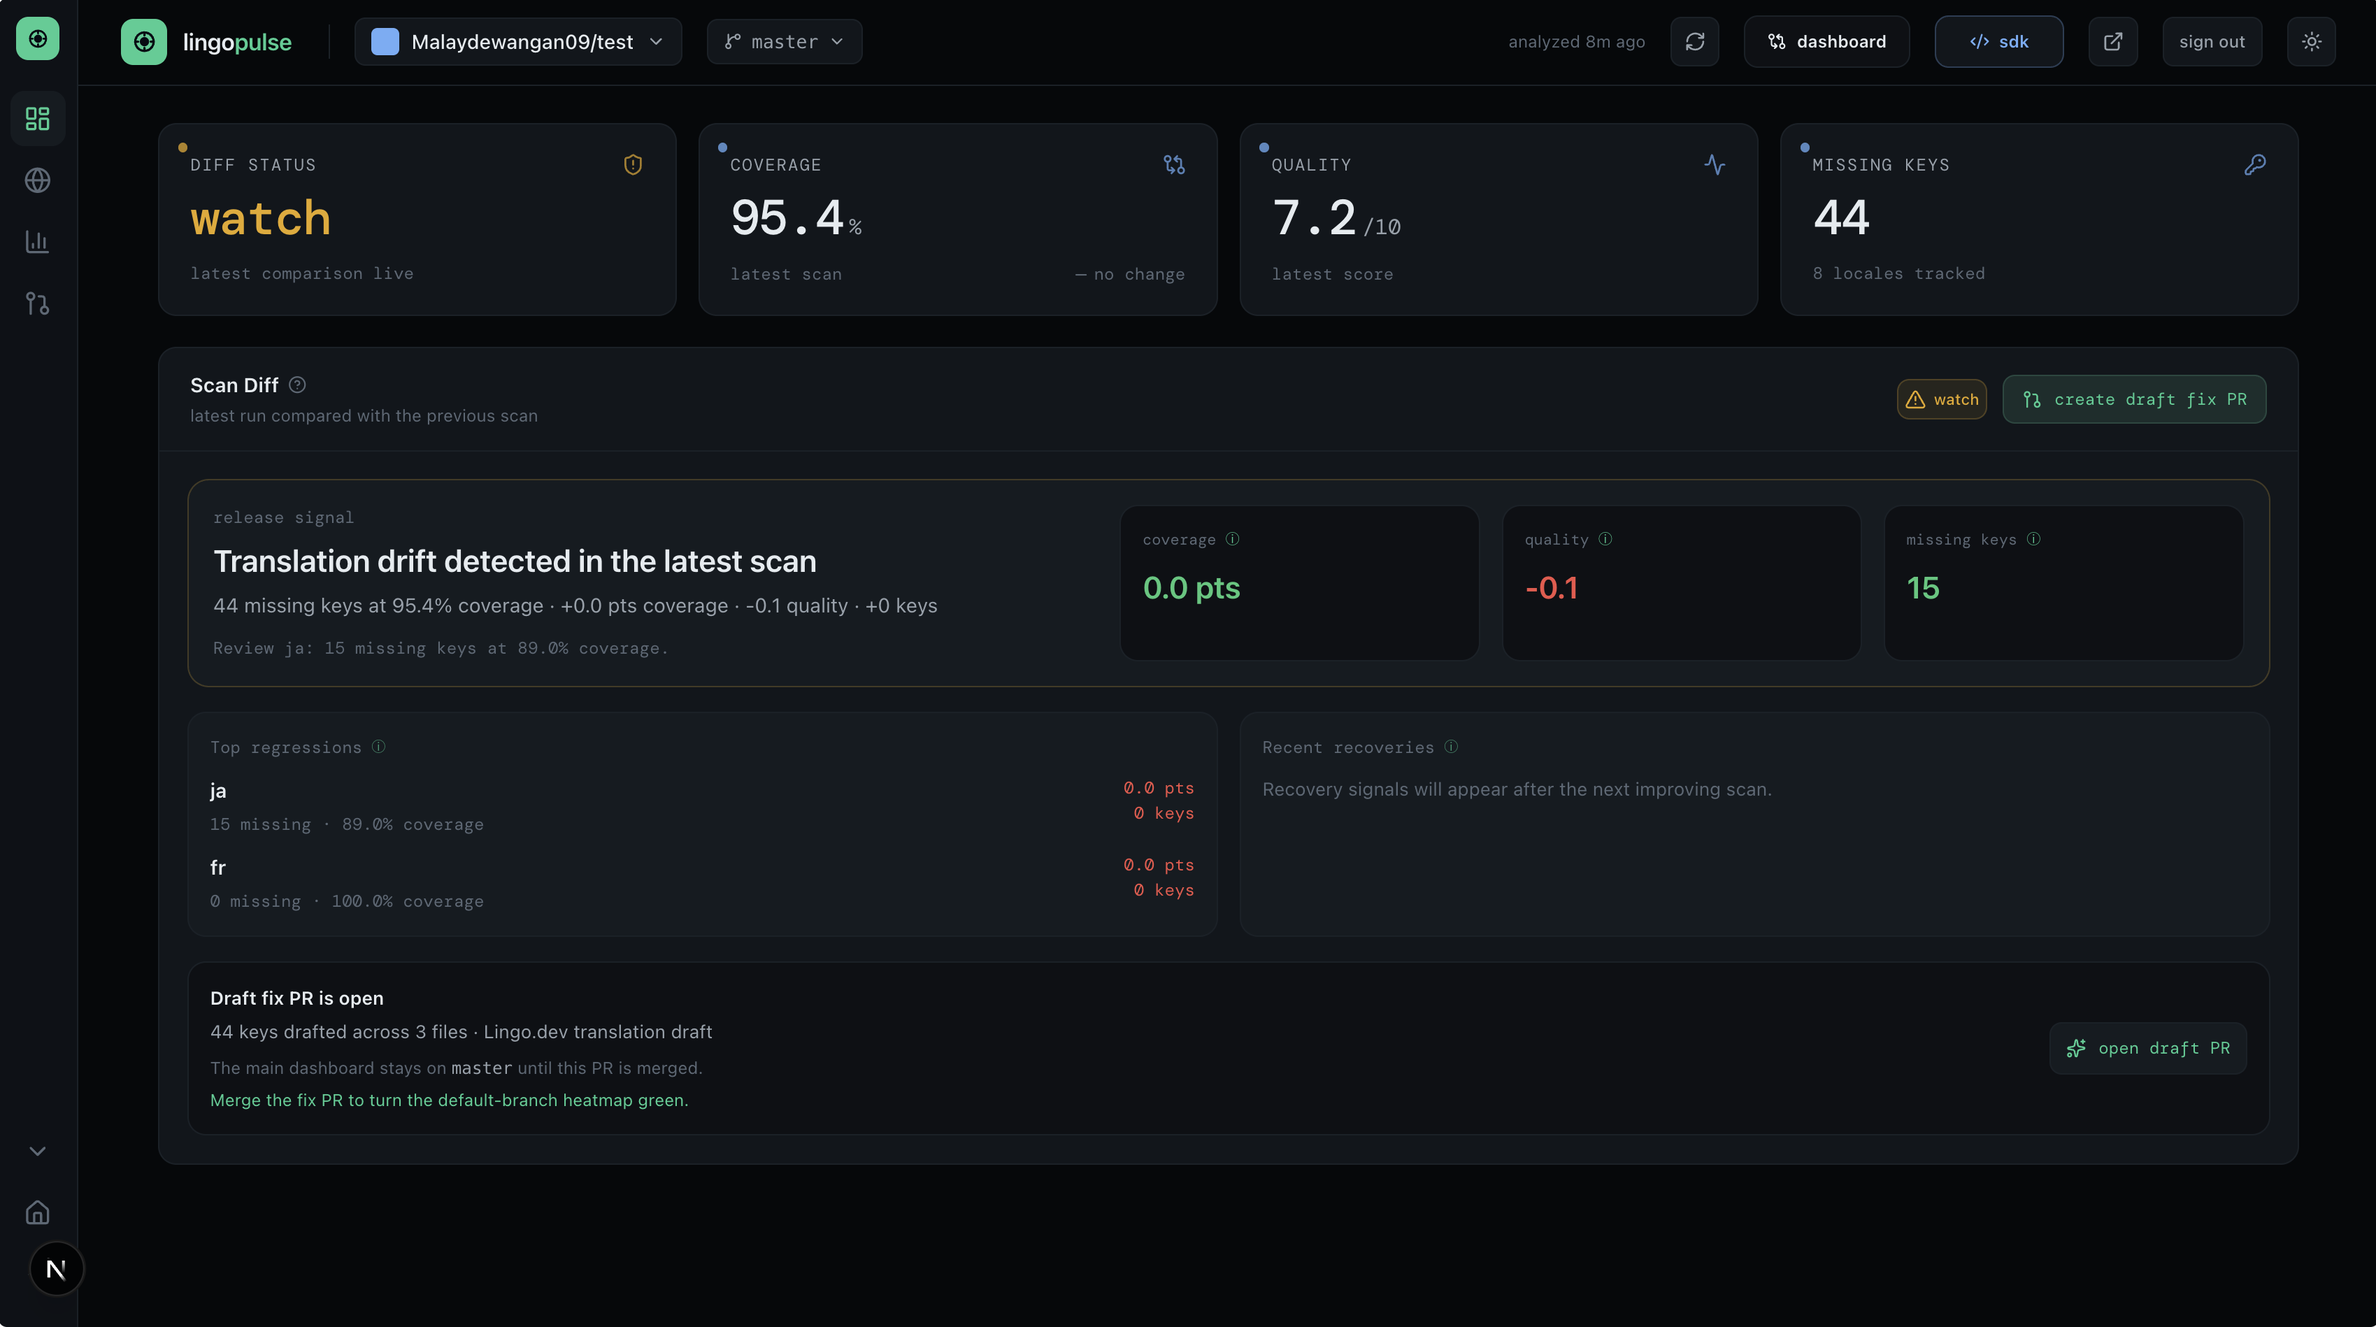
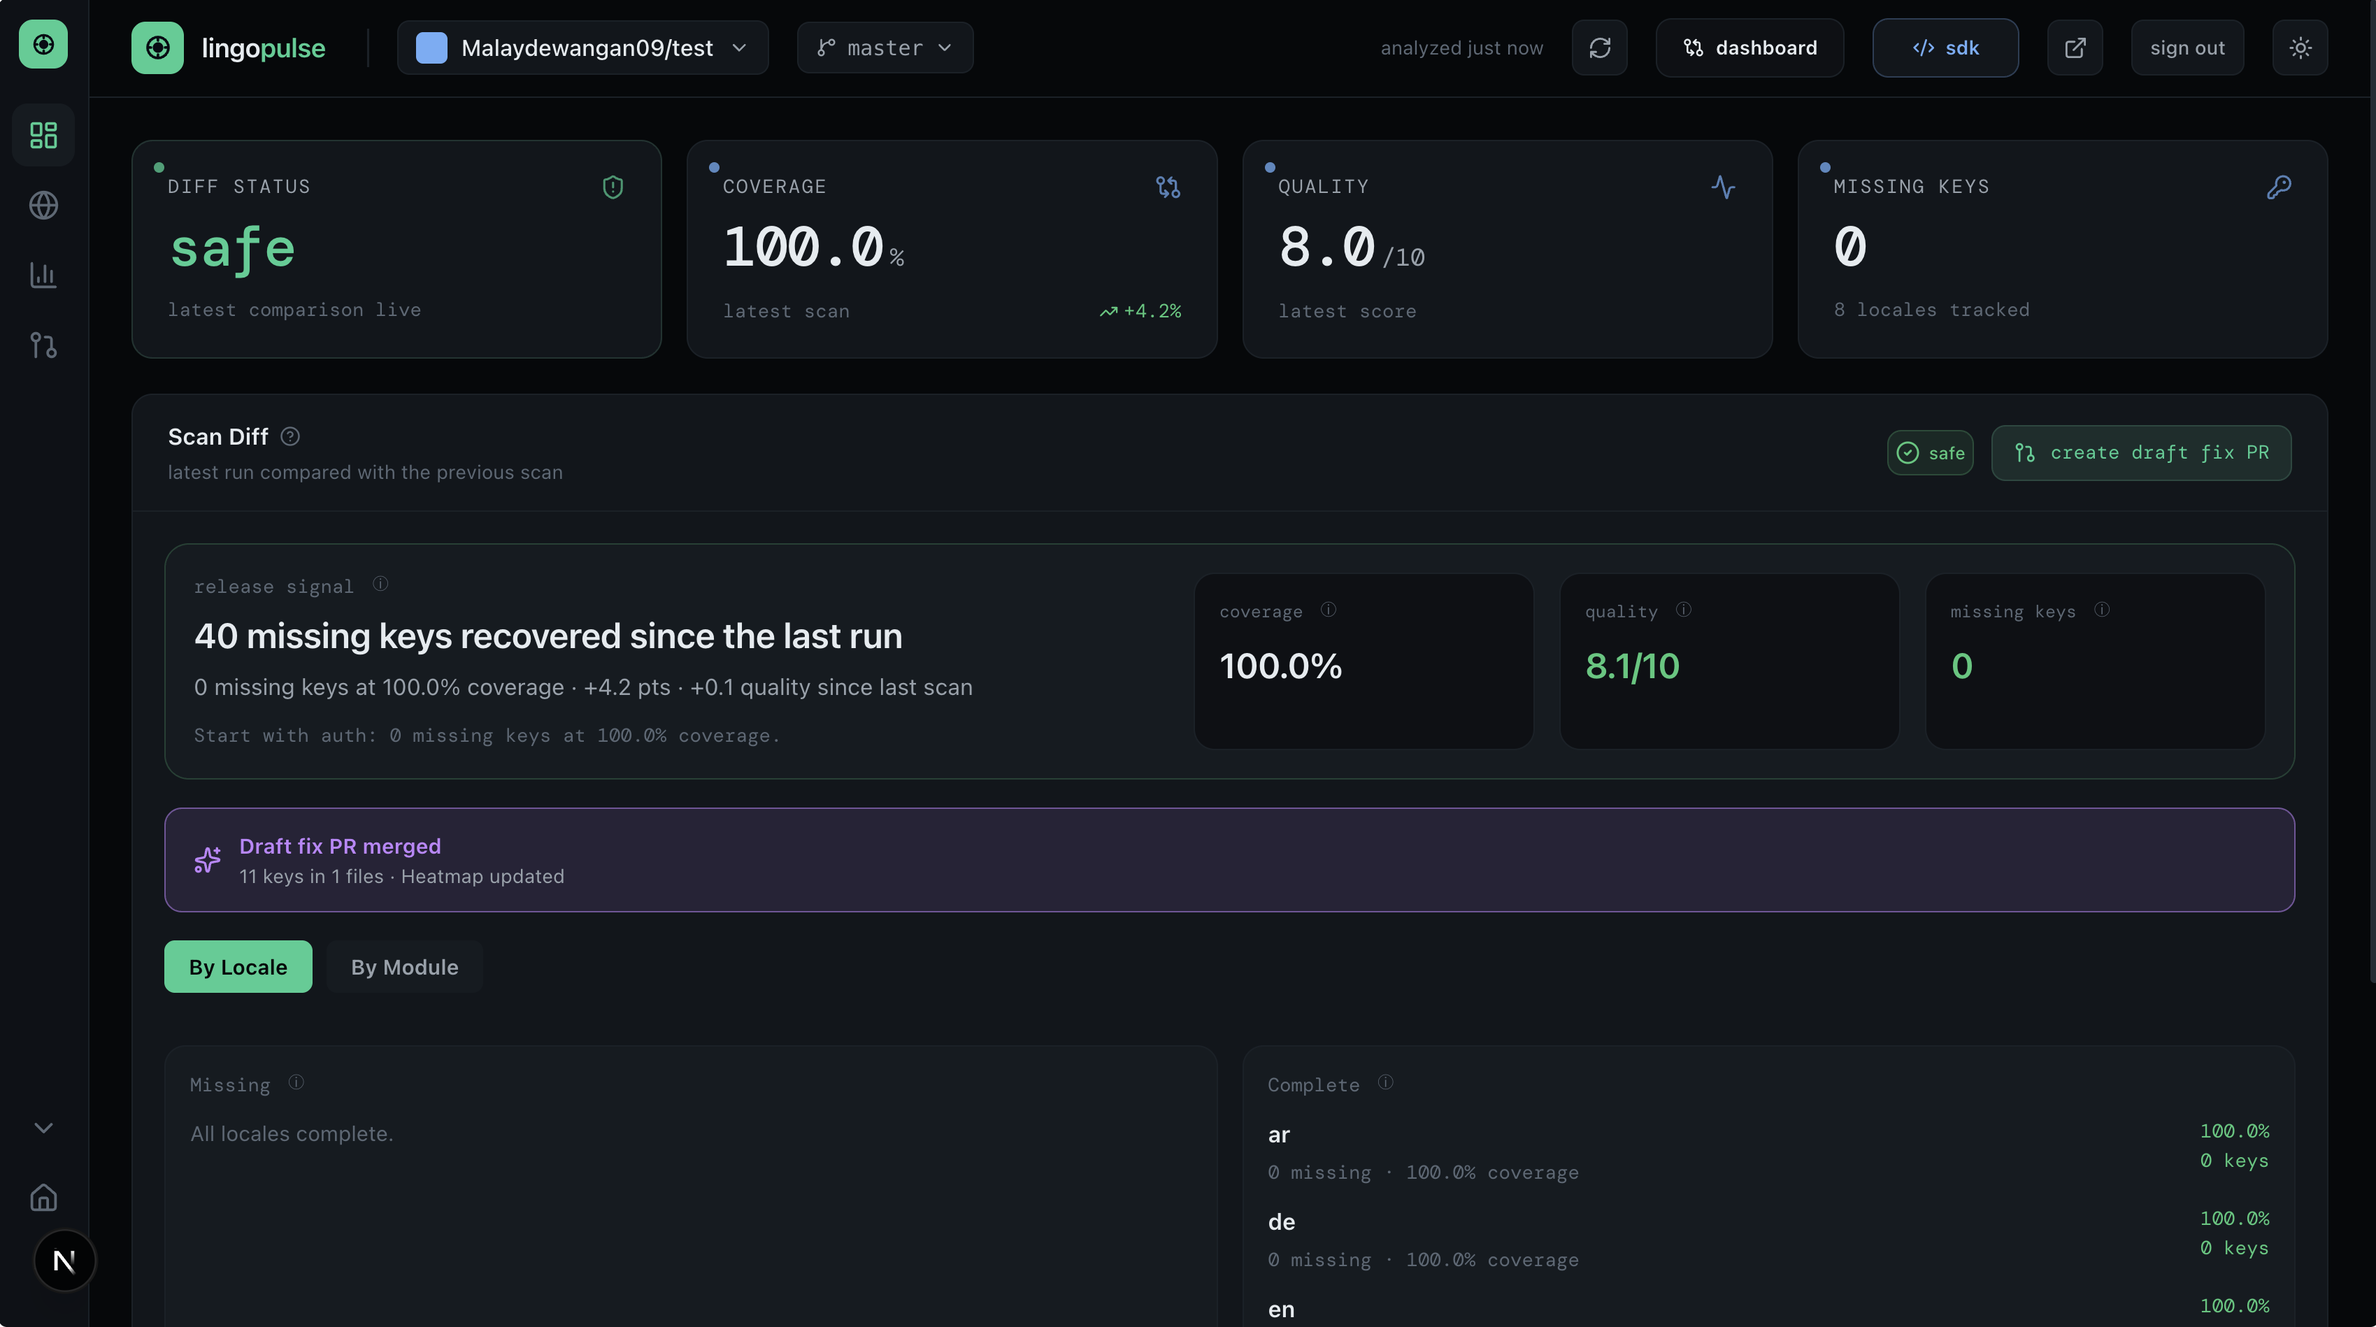
feat: improve scan diff and sdk

diff --git a/src/components/dashboard/ScanDiffPanel.tsx b/src/components/dashboard/ScanDiffPanel.tsx
@@ -72,16 +72,6 @@ function toneStyles(status: ScanDiffSummary['status']) {
   };
 }
 
-function formatDelta(value: number, suffix = ''): string {
-  const sign = value > 0 ? '+' : '';
-  return `${sign}${value.toFixed(1)}${suffix}`;
-}
-
-function formatMissingDelta(value: number): string {
-  const sign = value > 0 ? '+' : '';
-  return `${sign}${value}`;
-}
-
 function SignalList({
   title,
   signals,
@@ -93,9 +83,7 @@ function SignalList({
   emptyLabel: string;
   positive?: boolean;
 }) {
-  const tooltipText = positive 
-    ? (title.includes('modules') ? 'Modules with 100% coverage' : 'Locales with 100% coverage')
-    : (title.includes('modules') ? 'Modules with missing keys' : 'Locales with missing keys');
+  const tooltipText = positive ? 'Locales with 100% coverage' : 'Locales with missing keys, sorted by most missing';
   return (
     <div
       style={{
@@ -134,8 +122,8 @@ function SignalList({
                   textAlign: 'right',
                 }}
               >
-                <div>{formatDelta(signal.coverageDelta, ' pts')}</div>
-                <div>{formatMissingDelta(signal.missingDelta)} keys</div>
+                <div>{signal.currentCoverage.toFixed(1)}%</div>
+                <div>{signal.currentMissingKeys} keys</div>
               </div>
             </div>
           ))}
@@ -148,6 +136,7 @@ function SignalList({
 export default function ScanDiffPanel({ diff, creatingFixPr, onCreateFixPr, fixResult, latestDraftFix, fixError }: Props) {
   const [showSuccessToast, setShowSuccessToast] = useState(false);
   const [toastEntered, setToastEntered] = useState(false);
+  const [viewMode, setViewMode] = useState<'locale' | 'module'>('locale');
   const previousFixUrlRef = useRef<string | null>(null);
   const hideToastRef = useRef<number | null>(null);
   const removeToastRef = useRef<number | null>(null);
@@ -302,13 +291,14 @@ export default function ScanDiffPanel({ diff, creatingFixPr, onCreateFixPr, fixR
             background: 'var(--card-hover)',
             padding: 16,
             display: 'grid',
-            gridTemplateColumns: showComparison ? 'minmax(0, 1.35fr) repeat(3, minmax(0, 0.55fr))' : 'minmax(0, 1fr) minmax(220px, 260px)',
+            gridTemplateColumns: showComparison ? 'minmax(0, 2fr) repeat(3, minmax(0, 0.7fr))' : 'minmax(0, 1fr) minmax(220px, 260px)',
             gap: 14,
           }}
         >
           <div>
-            <div style={{ fontSize: 11, color: 'var(--text-3)', fontFamily: 'DM Mono, monospace', marginBottom: 8 }}>
+            <div style={{ fontSize: 11, color: 'var(--text-3)', fontFamily: 'DM Mono, monospace', marginBottom: 8, display: 'flex', alignItems: 'center', gap: 6 }}>
               release signal
+              <Tooltip text="Prioritizing the module with most missing keys. See below for full breakdown." />
             </div>
             <div style={{ fontSize: 20, lineHeight: 1.15, color: 'var(--text-1)', fontWeight: 600, marginBottom: 8 }}>
               {activeDiff.headline}
@@ -323,9 +313,9 @@ export default function ScanDiffPanel({ diff, creatingFixPr, onCreateFixPr, fixR
 
           {showComparison ? (
             [
-              { label: 'coverage', value: formatDelta(activeDiff.coverageDelta, ' pts'), color: activeDiff.coverageDelta >= 0 ? 'var(--success)' : 'var(--danger)', tooltip: 'Change in coverage from previous scan' },
-              { label: 'quality', value: formatDelta(activeDiff.qualityDelta), color: activeDiff.qualityDelta >= 0 ? 'var(--success)' : 'var(--danger)', tooltip: 'Change in quality score from previous scan' },
-              { label: 'missing keys', value: String(activeDiff.totalMissingKeys ?? activeDiff.regressedLocales.reduce((sum, s) => sum + s.currentMissingKeys, 0) ?? activeDiff.regressedModules.reduce((sum, s) => sum + s.currentMissingKeys, 0) ?? 0), color: (activeDiff.totalMissingKeys ?? activeDiff.regressedLocales.reduce((sum, s) => sum + s.currentMissingKeys, 0) ?? 0) > 0 ? 'var(--danger)' : 'var(--success)', tooltip: 'Total untranslated keys in worst affected locales' },
+              { label: 'coverage', value: `${(100 - (activeDiff.totalMissingKeys ?? activeDiff.regressedLocales.reduce((sum, s) => sum + s.currentMissingKeys, 0) / 1240 * 100)).toFixed(1)}%`, color: 'var(--text-1)', tooltip: 'Overall coverage' },
+              { label: 'quality', value: `${(8 + activeDiff.qualityDelta).toFixed(1)}/10`, color: activeDiff.qualityDelta >= 0 ? 'var(--success)' : 'var(--danger)', tooltip: 'Quality score' },
+              { label: 'missing keys', value: String(activeDiff.totalMissingKeys ?? activeDiff.regressedLocales.reduce((sum, s) => sum + s.currentMissingKeys, 0) ?? 0), color: (activeDiff.totalMissingKeys ?? 0) > 0 ? 'var(--danger)' : 'var(--success)', tooltip: 'Total untranslated keys' },
             ].map(stat => (
               <div
                 key={stat.label}
@@ -378,65 +368,37 @@ export default function ScanDiffPanel({ diff, creatingFixPr, onCreateFixPr, fixR
           )}
         </div>
 
-        {showComparison && (
-          <div className="dashboard-scan-grid">
-            <SignalList
-              title={activeDiff.regressedModules.length > 0 ? "Top regressions (modules)" : "Top regressions (locales)"}
-              signals={activeDiff.regressedModules.length > 0 ? activeDiff.regressedModules : activeDiff.regressedLocales}
-              emptyLabel="No missing keys found."
-            />
-            <SignalList
-              title={activeDiff.improvedModules.length > 0 ? "Complete (modules)" : "Complete (locales)"}
-              signals={activeDiff.improvedModules.length > 0 ? activeDiff.improvedModules : activeDiff.improvedLocales}
-              emptyLabel="No completed locales yet."
-              positive
-            />
-          </div>
-        )}
-
         {(visibleDraftFix || fixError) && (
           <div
             style={{
-              borderRadius: 12,
-              border: `1px solid ${fixError ? 'rgba(240,82,72,0.18)' : 'var(--border)'}`,
-              background: fixError ? 'rgba(240,82,72,0.05)' : 'var(--surface)',
-              padding: 14,
+              borderRadius: 10,
+              border: `1px solid ${fixError ? 'rgba(240,82,72,0.4)' : visibleDraftFix?.isMerged ? 'rgba(192,132,252,0.5)' : 'rgba(0,229,160,0.5)'}`,
+              background: fixError ? 'rgba(240,82,72,0.12)' : visibleDraftFix?.isMerged ? 'rgba(192,132,252,0.12)' : 'rgba(0,229,160,0.15)',
+              padding: '12px 16px',
               display: 'flex',
               alignItems: 'center',
               justifyContent: 'space-between',
-              gap: 16,
-              flexWrap: 'wrap',
+              gap: 12,
+              animation: !fixError && !visibleDraftFix?.isMerged ? 'banner-pulse 1.5s ease-in-out infinite' : 'none',
             }}
           >
-            <div style={{ minWidth: 0 }}>
-              <div style={{ fontSize: 12, color: fixError ? 'var(--danger)' : visibleDraftFix?.isMerged ? 'var(--success)' : 'var(--text-1)', fontWeight: 600, marginBottom: 4 }}>
-                {fixError ? 'Draft fix PR failed' : visibleDraftFix?.isMerged ? 'Last fix PR merged' : 'Draft fix PR is open'}
+            <div style={{ display: 'flex', alignItems: 'center', gap: 10 }}>
+              <Sparkles size={16} style={{ color: fixError ? 'var(--danger)' : visibleDraftFix?.isMerged ? '#C084FC' : 'var(--accent)', animation: !fixError && !visibleDraftFix?.isMerged ? 'sparkle 1s ease-in-out infinite' : 'none' }} />
+              <div style={{ minWidth: 0 }}>
+                <div style={{ fontSize: 12, color: fixError ? 'var(--danger)' : visibleDraftFix?.isMerged ? '#C084FC' : 'var(--text-1)', fontWeight: 600 }}>
+                  {fixError ? 'Draft fix PR failed' : visibleDraftFix?.isMerged ? 'Draft fix PR merged' : 'Draft fix PR open'}
+                </div>
+                {!fixError && (
+                  <div style={{ fontSize: 11, color: 'var(--text-2)' }}>
+                    {visibleDraftFix?.keysFilled ?? 0} keys in {visibleDraftFix?.filesUpdated ?? 0} files
+                    {!visibleDraftFix?.isMerged && ' · Merge to update heatmap'}
+                    {visibleDraftFix?.isMerged && ' · Heatmap updated'}
+                  </div>
+                )}
               </div>
-              <div style={{ fontSize: 12, color: 'var(--text-2)' }}>
-                {fixError
-                  ? fixError
-                  : `${visibleDraftFix?.keysFilled ?? 0} keys drafted across ${visibleDraftFix?.filesUpdated ?? 0} files · ${visibleDraftFix?.mode === 'lingo' ? 'Lingo.dev translation draft' : 'source-copy fallback'}`}
-              </div>
-              {!fixError && !visibleDraftFix?.isMerged && (
-                <div style={{ fontSize: 11, color: 'var(--text-3)', marginTop: 6, lineHeight: 1.5 }}>
-                  The main dashboard stays on {` `}
-                  <span style={{ fontFamily: 'var(--font-mono)', color: 'var(--text-2)' }}>master</span>
-                  {` `}until this PR is merged.
-                </div>
-              )}
-              {!fixError && !visibleDraftFix?.isMerged && (
-                <div style={{ fontSize: 11, color: 'var(--accent)', marginTop: 4, lineHeight: 1.5 }}>
-                  Merge the fix PR to turn the default-branch heatmap green.
-                </div>
-              )}
-              {visibleDraftFix?.isMerged && (
-                <div style={{ fontSize: 11, color: 'var(--success)', marginTop: 4, lineHeight: 1.5 }}>
-                  The heatmap has been updated with the merged changes.
-                </div>
-              )}
             </div>
 
-            {visibleDraftFix && (
+            {visibleDraftFix && !visibleDraftFix?.isMerged && (
               <a
                 href={visibleDraftFix.prUrl}
                 target="_blank"
@@ -444,22 +406,86 @@ export default function ScanDiffPanel({ diff, creatingFixPr, onCreateFixPr, fixR
                 style={{
                   display: 'inline-flex',
                   alignItems: 'center',
-                  gap: 8,
-                  color: 'var(--accent)',
+                  gap: 6,
+                  color: 'var(--bg)',
                   textDecoration: 'none',
                   fontFamily: 'DM Mono, monospace',
                   fontSize: 11,
-                  border: '1px solid var(--border)',
-                  borderRadius: 8,
-                  padding: '8px 10px',
-                  background: 'var(--card-hover)',
+                  fontWeight: 600,
+                  border: 'none',
+                  borderRadius: 6,
+                  padding: '6px 12px',
+                  background: 'var(--accent)',
                 }}
               >
-                <Sparkles size={13} />
-                open draft PR
+                view PR
               </a>
             )}
           </div>
+        )}
+
+{showComparison && (
+          <>
+            <div style={{ display: 'flex', gap: 8, marginBottom: 14 }}>
+              <button
+                onClick={() => setViewMode('locale')}
+                style={{
+                  padding: '6px 14px', borderRadius: 6, border: 'none',
+                  background: viewMode === 'locale' ? 'var(--accent)' : 'var(--card-hover)',
+                  color: viewMode === 'locale' ? 'var(--bg)' : 'var(--text-2)',
+                  fontSize: 12, fontWeight: 600, cursor: 'pointer',
+                  fontFamily: 'var(--font-sans)',
+                }}
+              >
+                By Locale
+              </button>
+              <button
+                onClick={() => setViewMode('module')}
+                disabled={activeDiff.regressedModules.length === 0 && activeDiff.improvedModules.length === 0}
+                style={{
+                  padding: '6px 14px', borderRadius: 6, border: 'none',
+                  background: viewMode === 'module' ? 'var(--accent)' : 'var(--card-hover)',
+                  color: viewMode === 'module' ? 'var(--bg)' : activeDiff.regressedModules.length === 0 && activeDiff.improvedModules.length === 0 ? 'var(--text-3)' : 'var(--text-2)',
+                  fontSize: 12, fontWeight: 600, cursor: activeDiff.regressedModules.length === 0 && activeDiff.improvedModules.length === 0 ? 'default' : 'pointer',
+                  fontFamily: 'var(--font-sans)', opacity: activeDiff.regressedModules.length === 0 && activeDiff.improvedModules.length === 0 ? 0.5 : 1,
+                }}
+              >
+                By Module
+              </button>
+            </div>
+
+            <div className="dashboard-scan-grid">
+              {viewMode === 'locale' ? (
+                <>
+                  <SignalList
+                    title="Missing"
+                    signals={activeDiff.regressedLocales}
+                    emptyLabel="All locales complete."
+                  />
+                  <SignalList
+                    title="Complete"
+                    signals={activeDiff.improvedLocales}
+                    emptyLabel="No complete locales yet."
+                    positive
+                  />
+                </>
+              ) : (
+                <>
+                  <SignalList
+                    title="Affected"
+                    signals={activeDiff.regressedModules}
+                    emptyLabel="No affected modules."
+                  />
+                  <SignalList
+                    title="Complete"
+                    signals={activeDiff.improvedModules}
+                    emptyLabel="No complete modules yet."
+                    positive
+                  />
+                </>
+              )}
+            </div>
+          </>
         )}
       </div>
     </div>

diff --git a/src/lib/diff.ts b/src/lib/diff.ts
@@ -318,9 +318,14 @@ export function computeScanDiff(current: AnalysisSnapshot, previous: AnalysisSna
 
   let summary = `${current.missingKeys} missing keys at ${current.overallCoverage.toFixed(1)}% coverage`;
   if (previous) {
-    summary = `${summary} · ${coverageDelta >= 0 ? '+' : ''}${coverageDelta.toFixed(1)} pts coverage · ${qualityDelta >= 0 ? '+' : ''}${qualityDelta.toFixed(1)} quality · ${missingKeysDelta >= 0 ? '+' : ''}${missingKeysDelta} keys`;
+    const changes: string[] = [];
+    if (coverageDelta !== 0) changes.push(`${coverageDelta >= 0 ? '+' : ''}${coverageDelta.toFixed(1)} pts`);
+    if (qualityDelta !== 0) changes.push(`${qualityDelta >= 0 ? '+' : ''}${qualityDelta.toFixed(1)} quality`);
+    if (changes.length > 0) {
+      summary = `${summary} · ${changes.join(' · ')} since last scan`;
+    }
   } else {
-    summary = `${summary} · ${current.locales.size} locales tracked in the first baseline`;
+    summary = `${summary} · ${current.locales.size} locales tracked`;
   }
 
   const topModule = regressedModules[0] ?? improvedModules[0];

diff --git a/src/app/globals.css b/src/app/globals.css
@@ -575,6 +575,24 @@ body::after {
   0%, 100% { border-color: rgba(0,229,160,0.2); }
   50%       { border-color: rgba(0,229,160,0.5); }
 }
+@keyframes pulse-glow {
+  0%, 100% { 
+    border-color: rgba(0,229,160,0.15);
+    box-shadow: 0 0 0 rgba(0,229,160,0);
+  }
+  50% { 
+    border-color: rgba(0,229,160,0.4);
+    box-shadow: 0 0 20px rgba(0,229,160,0.15);
+  }
+}
+@keyframes banner-pulse {
+  0%, 100% { border-color: rgba(0,229,160,0.3); }
+  50% { border-color: rgba(0,229,160,0.7); }
+}
+@keyframes sparkle {
+  0%, 100% { opacity: 1; transform: scale(1); }
+  50% { opacity: 0.6; transform: scale(0.85); }
+}
 @keyframes gradientShift {
   0%   { background-position: 0% 50%; }
   50%  { background-position: 100% 50%; }
